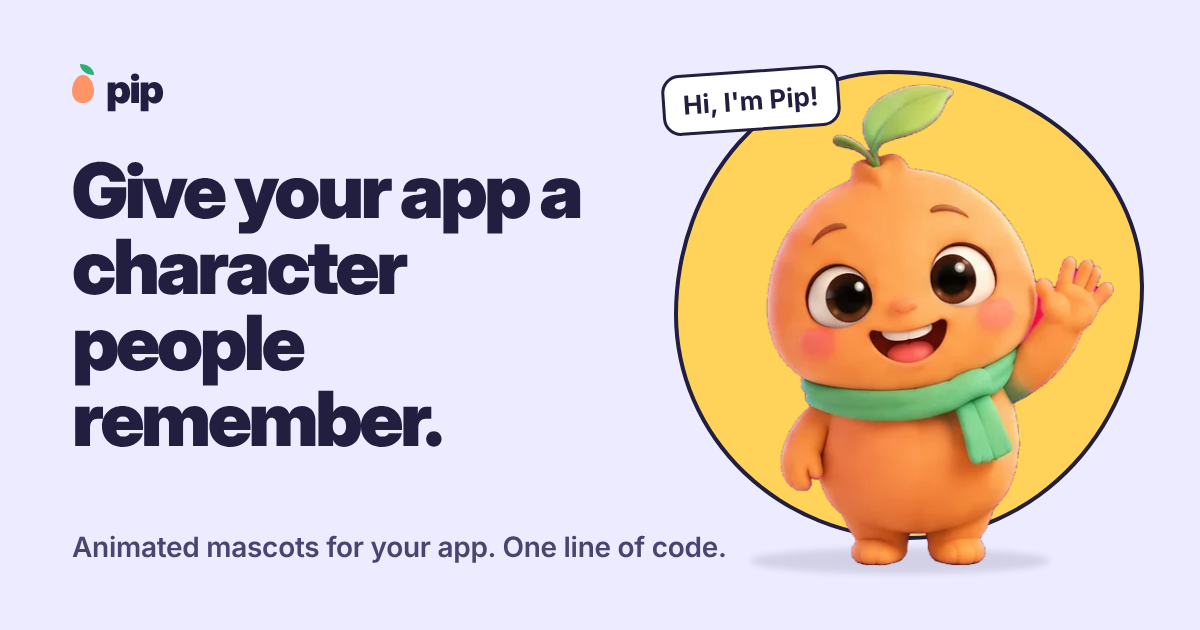
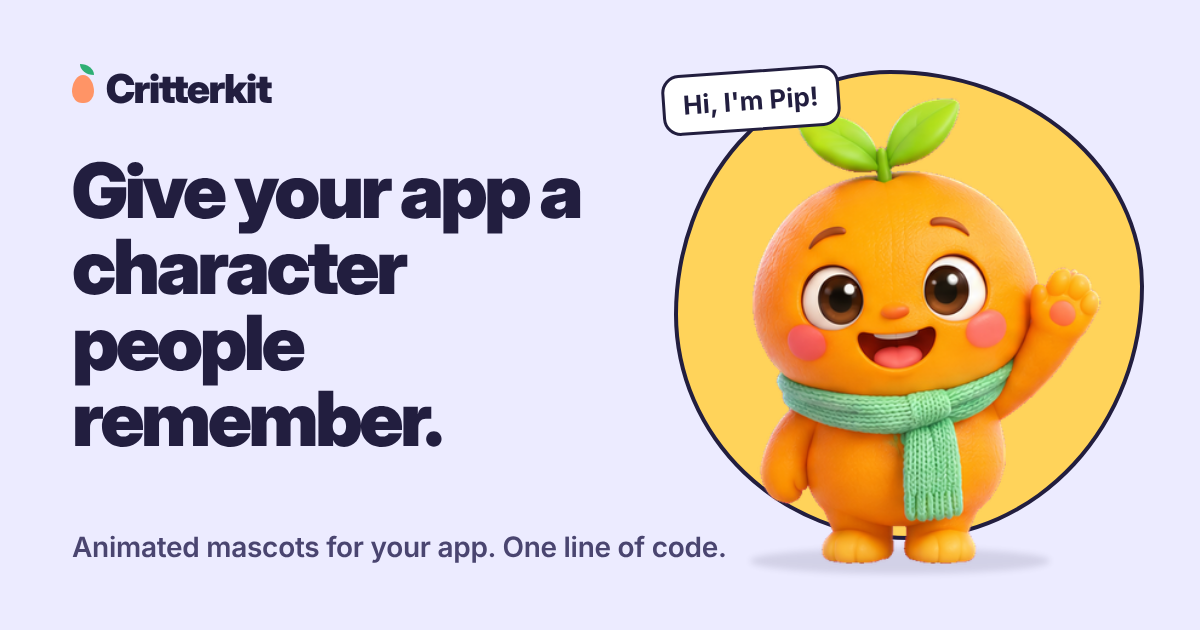
Share image: Critterkit branding and the newly painted Pip
Claude-Session: https://claude.ai/code/session_01BJkLHUHV26ZX74FSQkF6CH

Changed region(s): [[0.6167, 0.1206, 0.925, 0.9048], [0.0925, 0.1206, 0.2467, 0.181]]

diff --git a/landing.html b/landing.html
@@ -13,14 +13,14 @@
 <meta property="og:title" content="Critterkit: give your app a character people remember">
 <meta property="og:description" content="Describe a mascot in a sentence. Critterkit paints it, brings it to life, and adds it to your app with one line of code.">
 <meta property="og:url" content="https://www.critterkit.com/">
-<meta property="og:image" content="https://www.critterkit.com/og.png">
+<meta property="og:image" content="https://www.critterkit.com/og.png?v=2">
 <meta property="og:image:width" content="1200">
 <meta property="og:image:height" content="630">
-<meta property="og:image:alt" content="A little orange seed mascot with a green scarf, waving next to the words: Give your app a character people remember.">
+<meta property="og:image:alt" content="Pip, a little orange mascot with a leaf sprout and a green knitted scarf, waving next to the words: Give your app a character people remember.">
 <meta name="twitter:card" content="summary_large_image">
 <meta name="twitter:title" content="Critterkit: give your app a character people remember">
 <meta name="twitter:description" content="Describe a mascot in a sentence. Critterkit paints it, brings it to life, and adds it to your app with one line of code.">
-<meta name="twitter:image" content="https://www.critterkit.com/og.png">
+<meta name="twitter:image" content="https://www.critterkit.com/og.png?v=2">
 <link rel="preconnect" href="https://fonts.googleapis.com"><link rel="preconnect" href="https://fonts.gstatic.com" crossorigin>
 <link href="https://fonts.googleapis.com/css2?family=Bricolage+Grotesque:opsz,wdth,wght@12..96,75..100,500..800&family=Figtree:wght@400;500;600&display=swap" rel="stylesheet">
 <link rel="preload" as="fetch" href="https://www.critterkit.com/api/mascot?id=xyjv3nf5en3k" crossorigin="anonymous">

diff --git a/demo.html b/demo.html
@@ -13,14 +13,14 @@
 <meta property="og:title" content="Critterkit demo: a mascot inside real apps">
 <meta property="og:description" content="Try Critterkit inside a sign-up form and a meditation streak. It notices what is happening and reacts by itself.">
 <meta property="og:url" content="https://www.critterkit.com/demo">
-<meta property="og:image" content="https://www.critterkit.com/og.png">
+<meta property="og:image" content="https://www.critterkit.com/og.png?v=2">
 <meta property="og:image:width" content="1200">
 <meta property="og:image:height" content="630">
-<meta property="og:image:alt" content="A little orange seed mascot with a green scarf, waving next to the words: Give your app a character people remember.">
+<meta property="og:image:alt" content="Pip, a little orange mascot with a leaf sprout and a green knitted scarf, waving next to the words: Give your app a character people remember.">
 <meta name="twitter:card" content="summary_large_image">
 <meta name="twitter:title" content="Critterkit demo: a mascot inside real apps">
 <meta name="twitter:description" content="Try Critterkit inside a sign-up form and a meditation streak. It notices what is happening and reacts by itself.">
-<meta name="twitter:image" content="https://www.critterkit.com/og.png">
+<meta name="twitter:image" content="https://www.critterkit.com/og.png?v=2">
 <link rel="preconnect" href="https://fonts.googleapis.com"><link rel="preconnect" href="https://fonts.gstatic.com" crossorigin>
 <link href="https://fonts.googleapis.com/css2?family=Bricolage+Grotesque:opsz,wdth,wght@12..96,75..100,500..800&family=Figtree:wght@400;500;600;700&display=swap" rel="stylesheet">
 <link rel="preload" as="fetch" href="https://www.critterkit.com/api/mascot?id=xyjv3nf5en3k" crossorigin="anonymous">

diff --git a/docs.html b/docs.html
@@ -9,7 +9,7 @@
 <link rel="apple-touch-icon" href="/apple-touch-icon.png">
 <meta property="og:title" content="Critterkit docs: add a mascot to your app">
 <meta property="og:description" content="Two lines to add Critterkit. Placement, size, the JavaScript API, events and theming.">
-<meta property="og:image" content="https://www.critterkit.com/og.png">
+<meta property="og:image" content="https://www.critterkit.com/og.png?v=2">
 <meta name="twitter:card" content="summary_large_image">
 <link rel="preconnect" href="https://fonts.googleapis.com"><link rel="preconnect" href="https://fonts.gstatic.com" crossorigin>
 <link href="https://fonts.googleapis.com/css2?family=Bricolage+Grotesque:opsz,wdth,wght@12..96,75..100,500..800&family=Figtree:wght@400;500;600;700&display=swap" rel="stylesheet">
